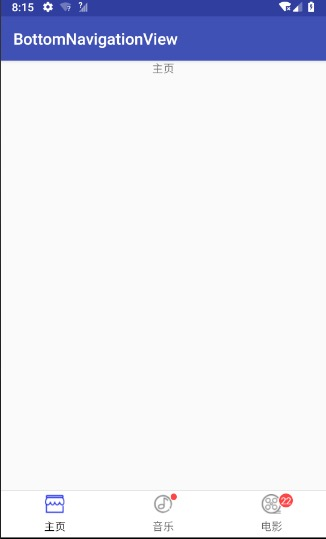
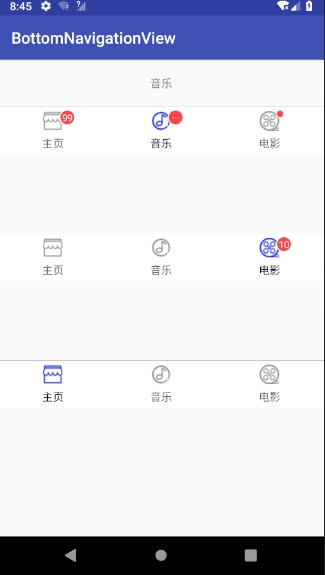
完善说明文档

diff --git a/app/src/main/java/com/winton/app/MainActivity.java b/app/src/main/java/com/winton/app/MainActivity.java
@@ -22,6 +22,8 @@ public class MainActivity extends AppCompatActivity {
     }
     private void initData(){
         final NavigationView mNV = findViewById(R.id.nv);
+        final NavigationView mNV2 = findViewById(R.id.nv2);
+        final NavigationView mNV3 = findViewById(R.id.nv3);
         List<NavigationView.Model> tabs = new ArrayList<>();
         tabs.add(new NavigationView.Model.Builder(R.mipmap.ic_index,R.mipmap.ic_index_unchek).title("主页").build());
         tabs.add(new NavigationView.Model.Builder(R.mipmap.ic_music,R.mipmap.ic_music_uncheck).title("音乐").build());
@@ -43,14 +45,23 @@ public class MainActivity extends AppCompatActivity {
         mNV.reminder(1,true,"···");
         mNV.reminder(2,true,"");
 
-        mNV.postDelayed(new Runnable() {
-            @Override
-            public void run() {
-                mNV.reminder(0,false,"");
-                mNV.reminder(1,true,"");
-                mNV.reminder(2,true,"22");
-            }
-        },2000);
+        List<NavigationView.Model> tab2s = new ArrayList<>();
+        tab2s.add(new NavigationView.Model.Builder(R.mipmap.ic_index,R.mipmap.ic_index_unchek).title("主页").build());
+        tab2s.add(new NavigationView.Model.Builder(R.mipmap.ic_music,R.mipmap.ic_music_uncheck).title("音乐").build());
+        tab2s.add(new NavigationView.Model.Builder(R.mipmap.ic_movie,R.mipmap.ic_movie_unchek).title("电影").build());
+        mNV2.setItems(tab2s);
+        mNV2.build();
+        mNV2.reminder(2,true,"10");
+
+
+        List<NavigationView.Model> tab3s = new ArrayList<>();
+        tab3s.add(new NavigationView.Model.Builder(R.mipmap.ic_index,R.mipmap.ic_index_unchek).title("主页").build());
+        tab3s.add(new NavigationView.Model.Builder(R.mipmap.ic_music,R.mipmap.ic_music_uncheck).title("音乐").build());
+        tab3s.add(new NavigationView.Model.Builder(R.mipmap.ic_movie,R.mipmap.ic_movie_unchek).title("电影").build());
+        mNV3.setItems(tab3s);
+        mNV3.build();
+        mNV3.reminder(1,false,"");
+
     }
 
 }

diff --git a/bottomnavigationview/src/main/java/com/winton/bottomnavigationview/NavigationView.java b/bottomnavigationview/src/main/java/com/winton/bottomnavigationview/NavigationView.java
@@ -122,7 +122,7 @@ public class NavigationView extends FrameLayout {
         itemContainer.removeAllViews();
         itemContainer.setWeightSum(items.size());
         addChild();
-        if(showline){
+        if(!showline){
             line.setVisibility(INVISIBLE);
         }
         check(0);

diff --git a/README.md b/README.md
@@ -10,7 +10,12 @@
 ![qq_img](https://github.com/wintonBy/BottomNavigationView/blob/master/app/screen/qq.png)
 ## 使用效果
 <div>
-    <img src="https://github.com/wintonBy/BottomNavigationView/blob/master/app/screen/demo.png" width="200"/>
+    <img src="https://github.com/wintonBy/BottomNavigationView/blob/master/app/screen/demo.png" width="320"/>
+</div>
+<div algin="center">
+    <img src="https://github.com/wintonBy/BottomNavigationView/blob/master/app/screen/default.png" width="320"/><br>默认<br>
+    <img src="https://github.com/wintonBy/BottomNavigationView/blob/master/app/screen/online.png" width="320"/><br>无线<br>
+    <img src="https://github.com/wintonBy/BottomNavigationView/blob/master/app/screen/customline.png" width="320"/><br>自定义线<br>
 </div>
 
 ## 集成方式
@@ -29,7 +34,7 @@ Add it in your root build.gradle at the end of repositories:
 Step 2. Add the dependency
 ```
 	dependencies {
-	        implementation 'com.github.wintonBy:BottomNavigationView:2.3'
+	        implementation 'com.github.wintonBy:BottomNavigationView:2.4'
 	}
 ```
 
